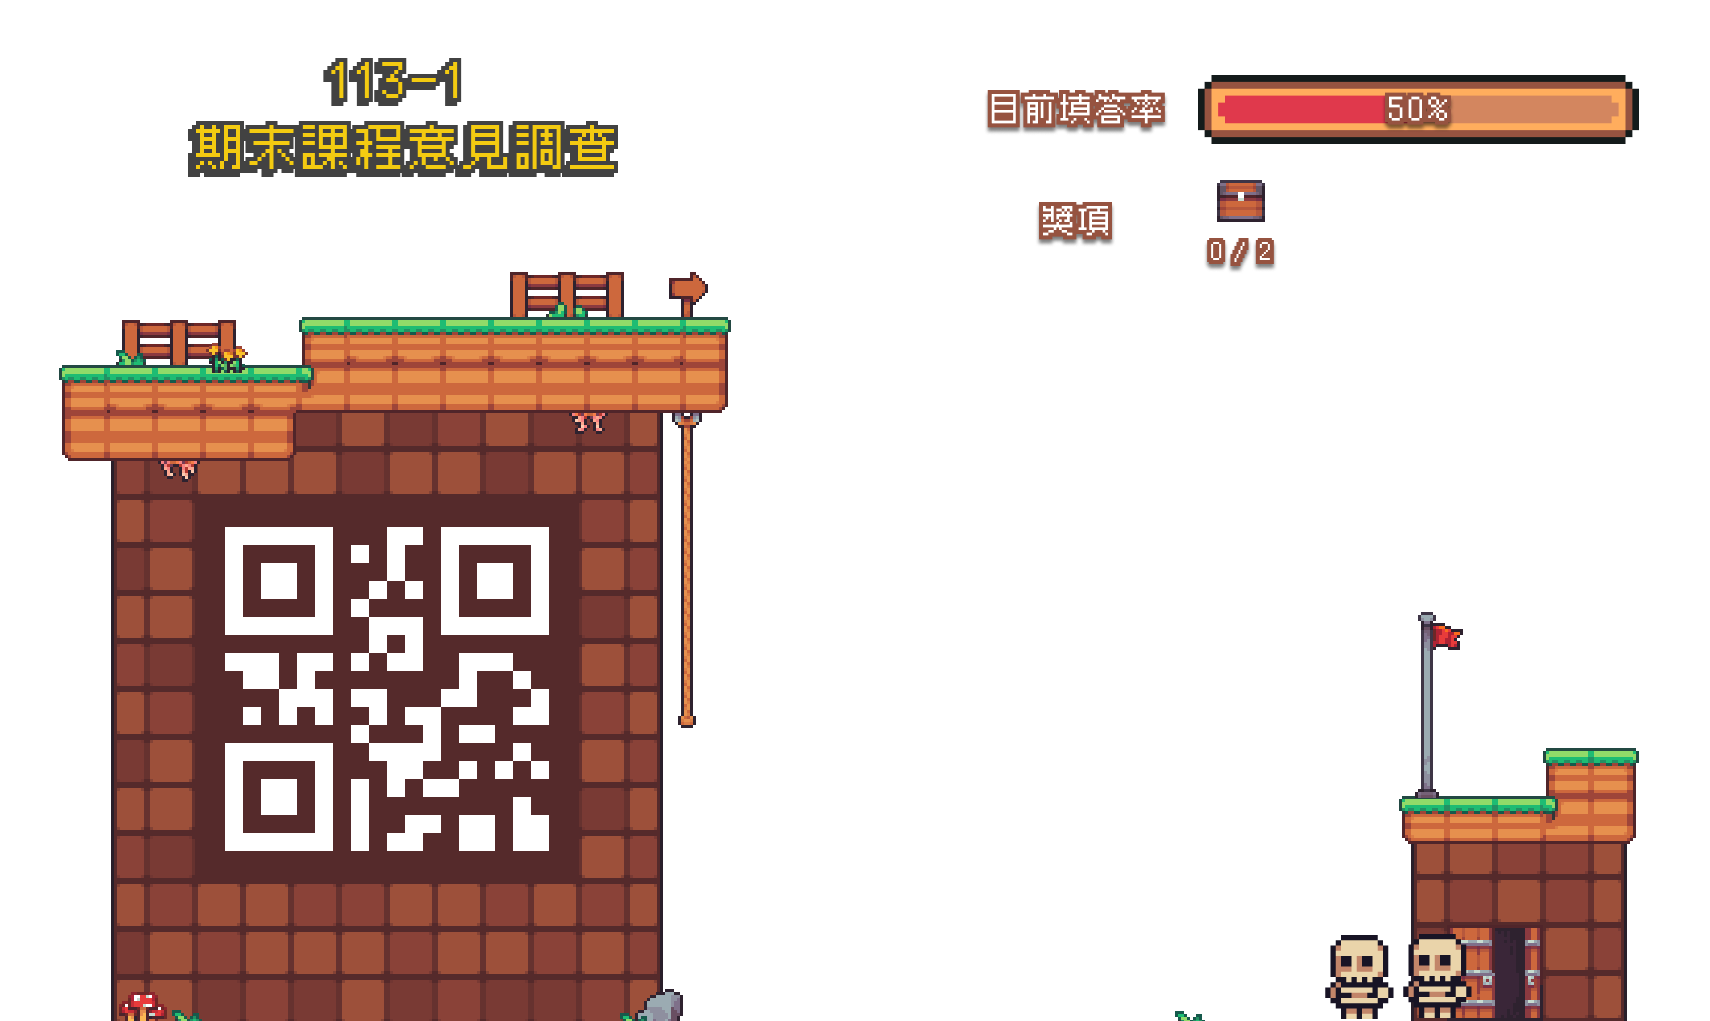
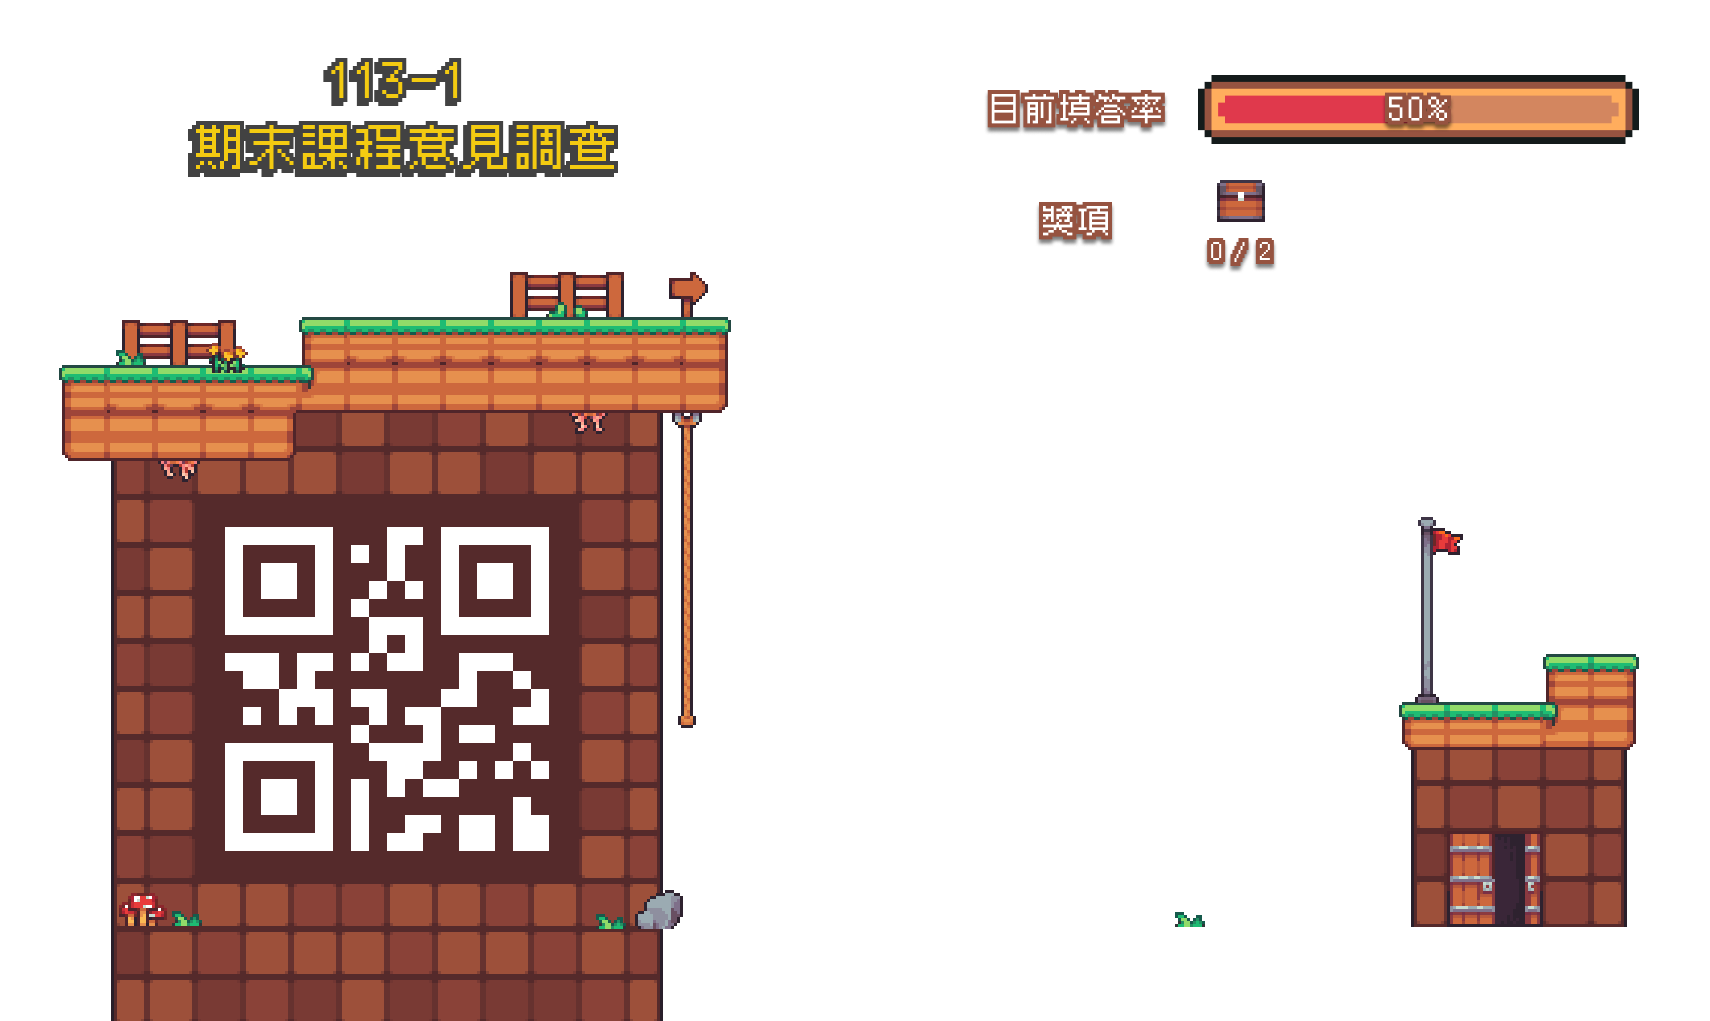
update 0828 demo 調整

diff --git a/scss/main.scss b/scss/main.scss
@@ -50,7 +50,7 @@ main {
     height:30%;
     background:url("../images/bg-wall.png") repeat center center;
     position: absolute;
-    top:1075px;
+    top:995px;
     z-index: 3;
   }
   .bg-ground{
@@ -58,8 +58,8 @@ main {
     height:96px;
     background:url("../images/bg-ground.png") repeat-x center center;
     position: absolute;
-    top:1019px;
-    z-index: 4;
+    top:926px;
+    z-index: 6;
   }
   .demo{
     width:100%;
@@ -69,13 +69,13 @@ main {
     z-index: 5;
     .ch_act{
       position: absolute;
-      top:900px;
+      top:808px;
       left:50%;
       margin-inline-start:128px;
     }
     .ch_01_01{
       position: absolute;
-      top:897px;
+      top:805px;
       left:50%;
       margin-inline-start:320px;
       img{
@@ -84,16 +84,38 @@ main {
         transform: scaleX(-1);
       }
     }
+    .ch_01_02{
+      position: absolute;
+      top:805px;
+      left:50%;
+      margin-inline-start:414px;
+      img{
+        width:164px;
+        height:164px;
+        transform: scaleX(-1);
+      }
+    }
+    .ch_01_03{
+      position: absolute;
+      top:805px;
+      left:50%;
+      margin-inline-start:505px;
+      img{
+        width:164px;
+        height:164px;
+        transform: scaleX(-1);
+      }
+    }
     .p1_act{
       position: absolute;
-      top:791px;
+      top:702px;
       left:50%;
       margin-inline-start:-240px;
       z-index: 6;
     }
     .dead_01{
       position: absolute;
-      top:896px;
+      top:802px;
       left:50%;
       margin-inline-start:40px;
       z-index:5;

diff --git a/css/main.css b/css/main.css
@@ -51,7 +51,7 @@ main .bg-wall {
   height: 30%;
   background: url("../images/bg-wall.png") repeat center center;
   position: absolute;
-  top: 1075px;
+  top: 995px;
   z-index: 3;
 }
 main .bg-ground {
@@ -59,8 +59,8 @@ main .bg-ground {
   height: 96px;
   background: url("../images/bg-ground.png") repeat-x center center;
   position: absolute;
-  top: 1019px;
-  z-index: 4;
+  top: 926px;
+  z-index: 6;
 }
 main .demo {
   width: 100%;
@@ -71,13 +71,13 @@ main .demo {
 }
 main .demo .ch_act {
   position: absolute;
-  top: 900px;
+  top: 808px;
   left: 50%;
   margin-inline-start: 128px;
 }
 main .demo .ch_01_01 {
   position: absolute;
-  top: 897px;
+  top: 805px;
   left: 50%;
   margin-inline-start: 320px;
 }
@@ -86,16 +86,38 @@ main .demo .ch_01_01 img {
   height: 164px;
   transform: scaleX(-1);
 }
+main .demo .ch_01_02 {
+  position: absolute;
+  top: 805px;
+  left: 50%;
+  margin-inline-start: 414px;
+}
+main .demo .ch_01_02 img {
+  width: 164px;
+  height: 164px;
+  transform: scaleX(-1);
+}
+main .demo .ch_01_03 {
+  position: absolute;
+  top: 805px;
+  left: 50%;
+  margin-inline-start: 505px;
+}
+main .demo .ch_01_03 img {
+  width: 164px;
+  height: 164px;
+  transform: scaleX(-1);
+}
 main .demo .p1_act {
   position: absolute;
-  top: 791px;
+  top: 702px;
   left: 50%;
   margin-inline-start: -240px;
   z-index: 6;
 }
 main .demo .dead_01 {
   position: absolute;
-  top: 896px;
+  top: 802px;
   left: 50%;
   margin-inline-start: 40px;
   z-index: 5;

diff --git a/index.html b/index.html
@@ -15,6 +15,8 @@
 		<div class="p1_act"><img src="images/p1_act.gif"></div>
 		<div class="dead_01"><img src="images/dead_01.gif"></div>
 		<div class="ch_act"><img src="images/ch_act.gif"></div>
+		<div class="ch_01_03"><img src="images/ch_01_01.gif"></div>
+		<div class="ch_01_02"><img src="images/ch_01_01.gif"></div>
 		<div class="ch_01_01"><img src="images/ch_01_01.gif"></div>
 		<div class="demo-bg"><img src="images/demo_bg.png"></div>
 	</div>
